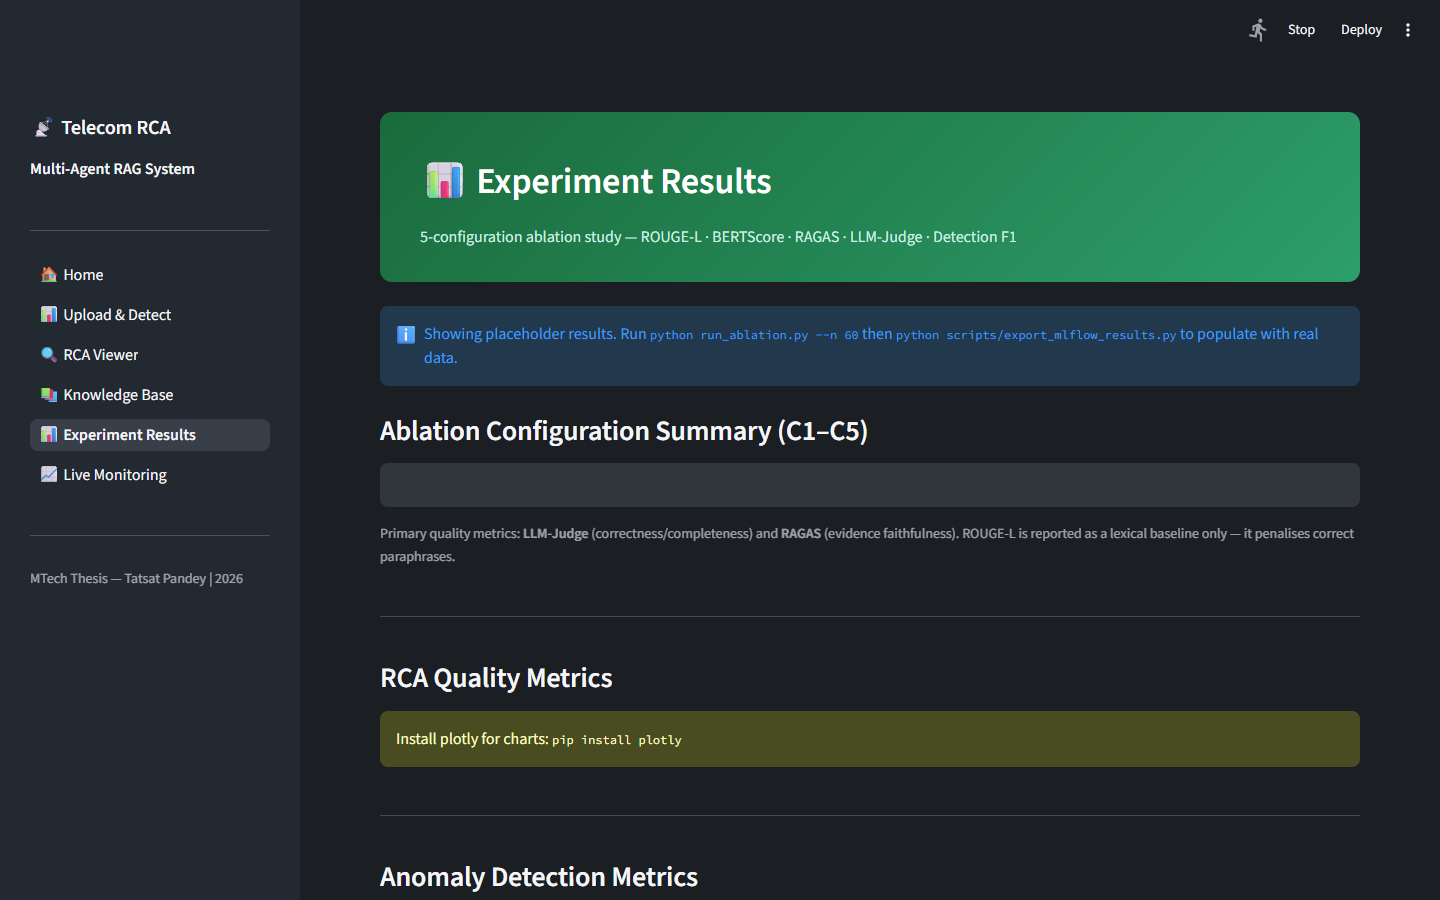
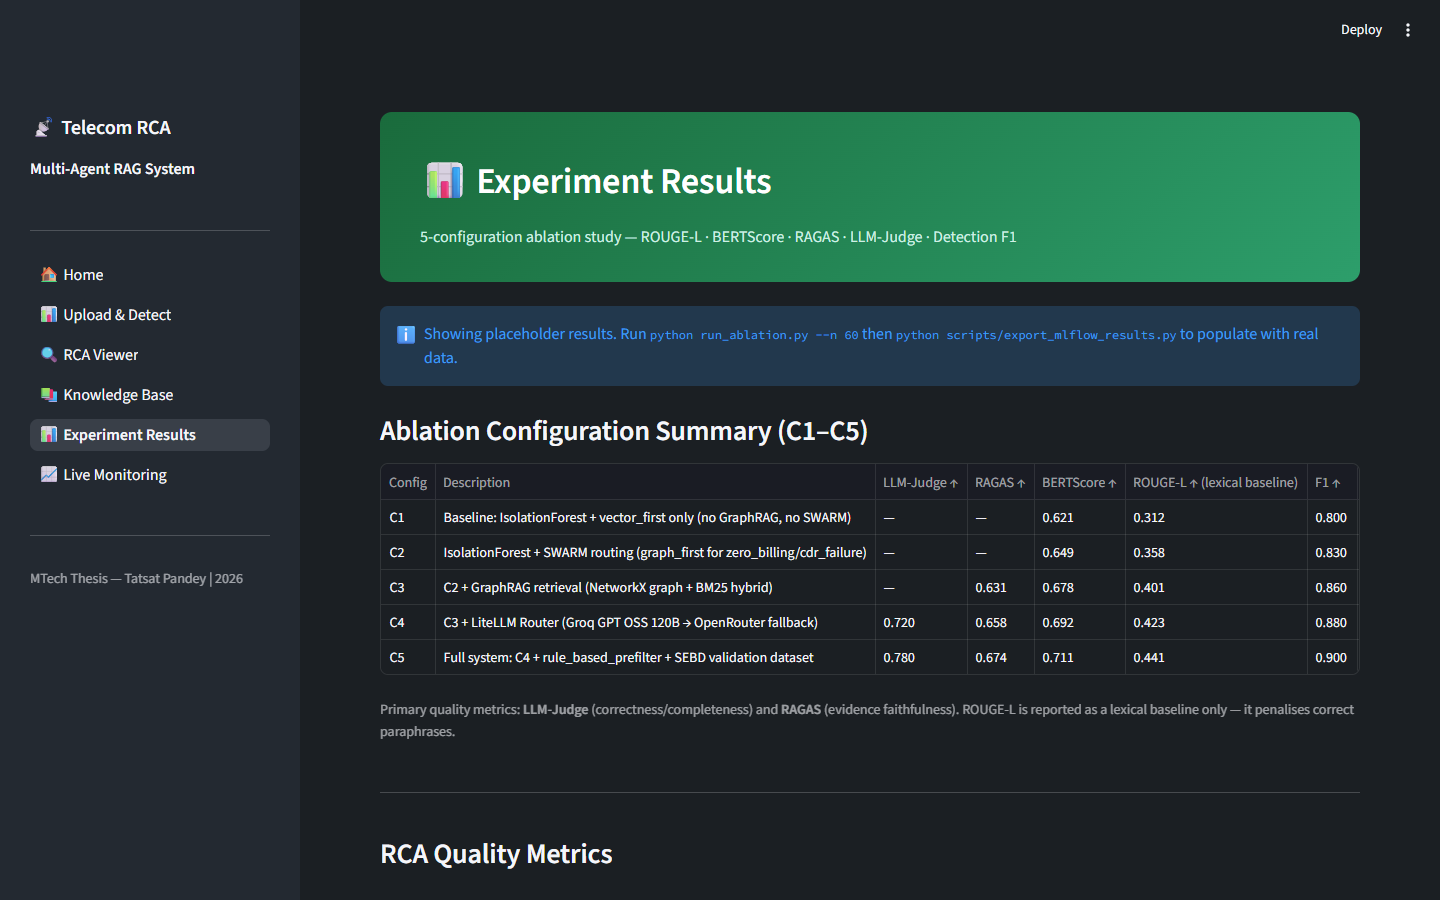
fix: replace ASCII architecture diagram with styled layers, enable plotly charts, refresh screenshots

diff --git a/app.py b/app.py
@@ -543,24 +543,26 @@ with tab_about:
     """)
 
 with tab_arch:
-    st.code("""
-┌─────────────────────────────────────────────────────────────────┐
-│  L5  UI & Monitoring          Streamlit + MLflow + SQLite       │
-├─────────────────────────────────────────────────────────────────┤
-│  L4  Agent Orchestration      LangGraph StateGraph              │
-│      Investigator → Reasoner → Critic → Reporter                │
-├─────────────────────────────────────────────────────────────────┤
-│  L3  RAG Engine               Hybrid (BM25 + dense + reranker)  │
-│                                ChromaDB · sentence-transformers │
-├─────────────────────────────────────────────────────────────────┤
-│  L2  Anomaly Detection        IsolationForest + Rule Pre-filter │
-├─────────────────────────────────────────────────────────────────┤
-│  L1  Data Ingestion           Pandas · NumPy · Augmentation     │
-├─────────────────────────────────────────────────────────────────┤
-│  L0  LLM Backend              Groq (primary) · OpenRouter (fallback)      │
-│                                LiteLLM Router — auto rate-limit failover   │
-└─────────────────────────────────────────────────────────────────┘
-    """, language="text")
+    _layers = [
+        ("L5", "UI & Monitoring", "Streamlit · MLflow · SQLite", "#e96995"),
+        ("L4", "Agent Orchestration", "LangGraph StateGraph — Investigator → Reasoner → Critic → Reporter", "#9b6eff"),
+        ("L3", "RAG Engine", "Hybrid BM25 + dense + reranker · ChromaDB · sentence-transformers", "#5b8def"),
+        ("L2", "Anomaly Detection", "IsolationForest + Rule Pre-filter", "#ffa940"),
+        ("L1", "Data Ingestion", "Pandas · NumPy · Anomaly Injection", "#4ccf78"),
+        ("L0", "LLM Backend", "Groq GPT OSS 120B (primary) · OpenRouter (fallback) · LiteLLM Router auto-failover", "#36baa2"),
+    ]
+    _rows = "".join(
+        f'''<div style="display:flex; align-items:center; gap:1rem; background:var(--bg-card);
+             border:1px solid var(--border); border-left:3px solid {color}; border-radius:8px;
+             padding:0.8rem 1.1rem; margin-bottom:0.45rem;">
+            <span style="font-family:Consolas,monospace; font-weight:700; color:{color}; min-width:2.2rem;">{lvl}</span>
+            <span style="color:var(--text-primary); font-weight:600; min-width:12rem;">{name}</span>
+            <span style="color:var(--text-secondary); font-size:0.88rem;">{tech}</span>
+        </div>'''
+        for lvl, name, tech, color in _layers
+    )
+    st.markdown(f'<div style="margin-top:0.5rem;">{_rows}</div>', unsafe_allow_html=True)
+    st.caption("Each layer depends only on the layers below it. The LLM backend (L0) is shared by all four agents through a single router gateway.")
 
 with tab_stack:
     t1, t2 = st.columns(2)
@@ -569,7 +571,7 @@ with tab_stack:
         | Component | Technology |
         |-----------|------------|
         | LLM (primary) | Groq · openai/gpt-oss-120b |
-        | LLM (fallback) | OpenRouter · DeepSeek R1 / Llama 3.3 (free) |
+        | LLM (fallback) | OpenRouter · GPT OSS 120B / Llama 3.3 / Qwen3 (free) |
         | Agents | LangGraph StateGraph |
         | Vector DB | ChromaDB (sqlite-backed) |
         | Embeddings | sentence-transformers (MiniLM-L6) |